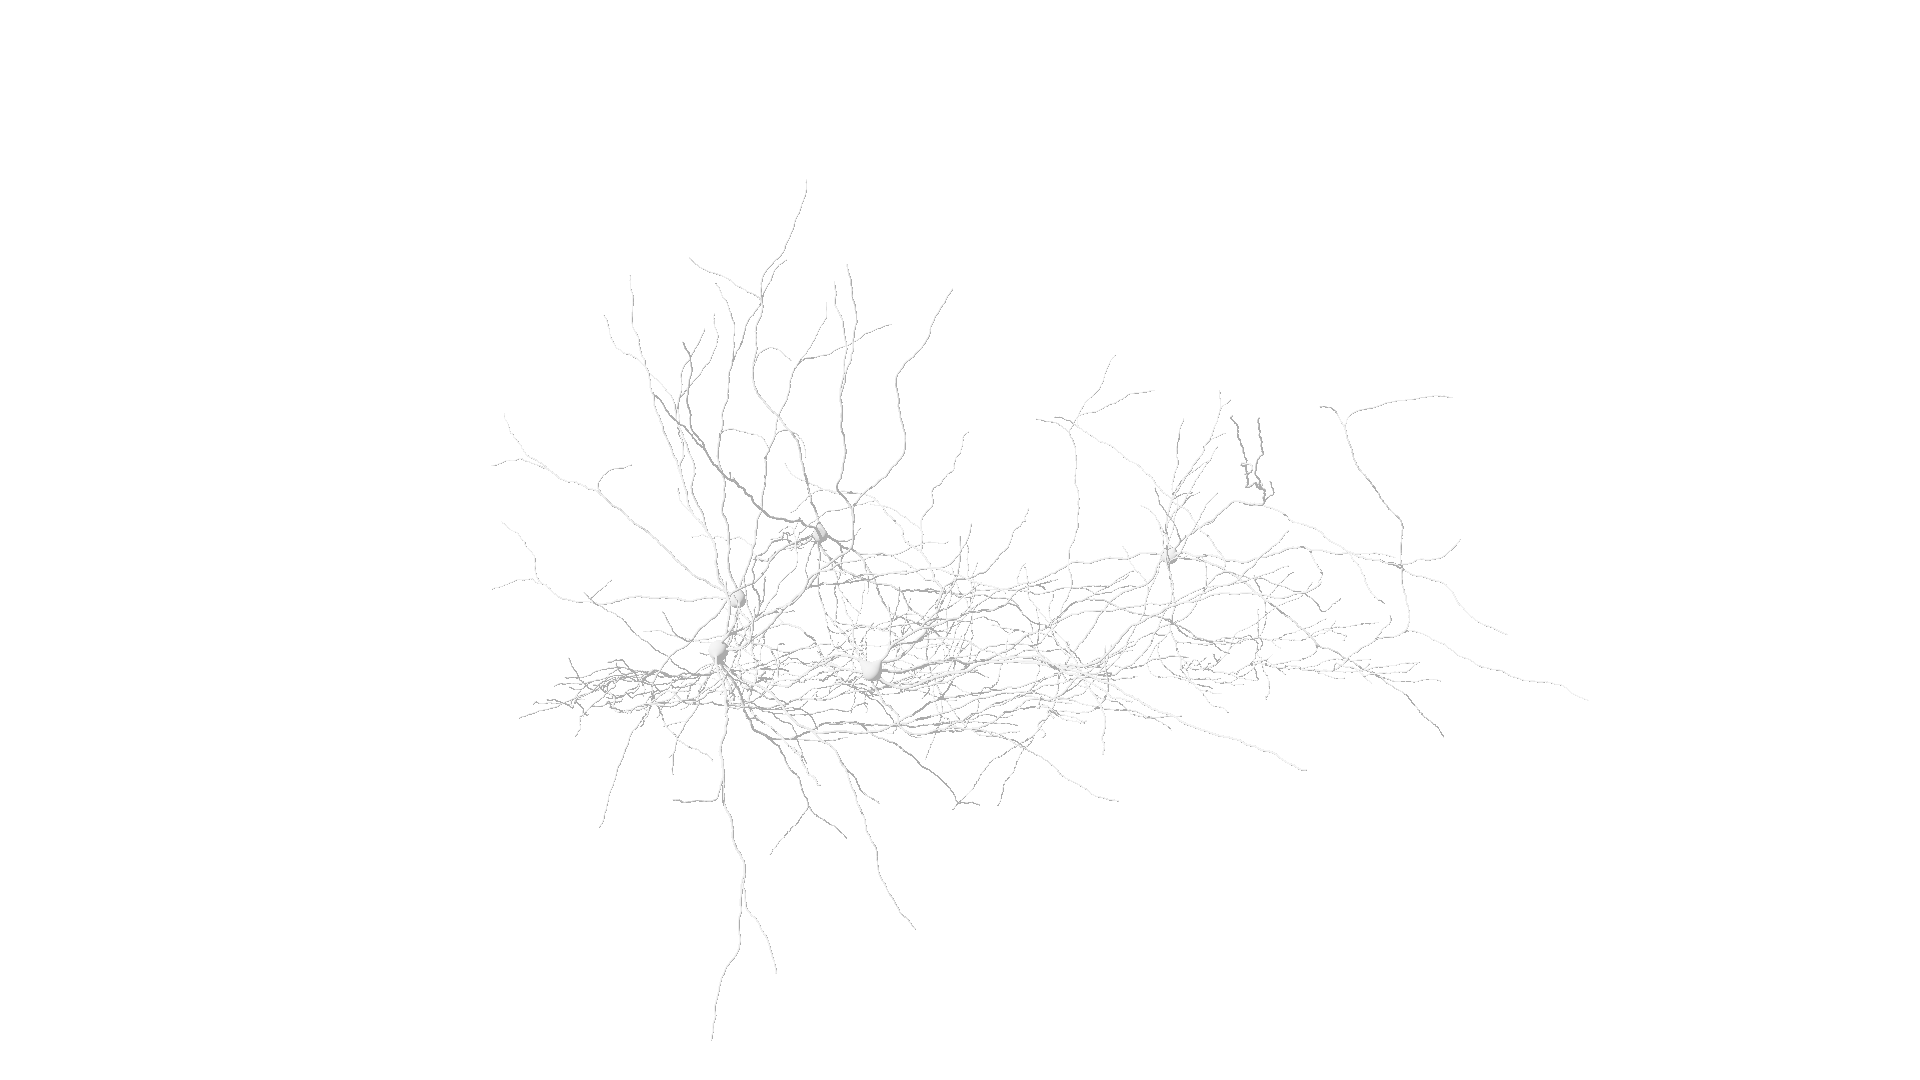
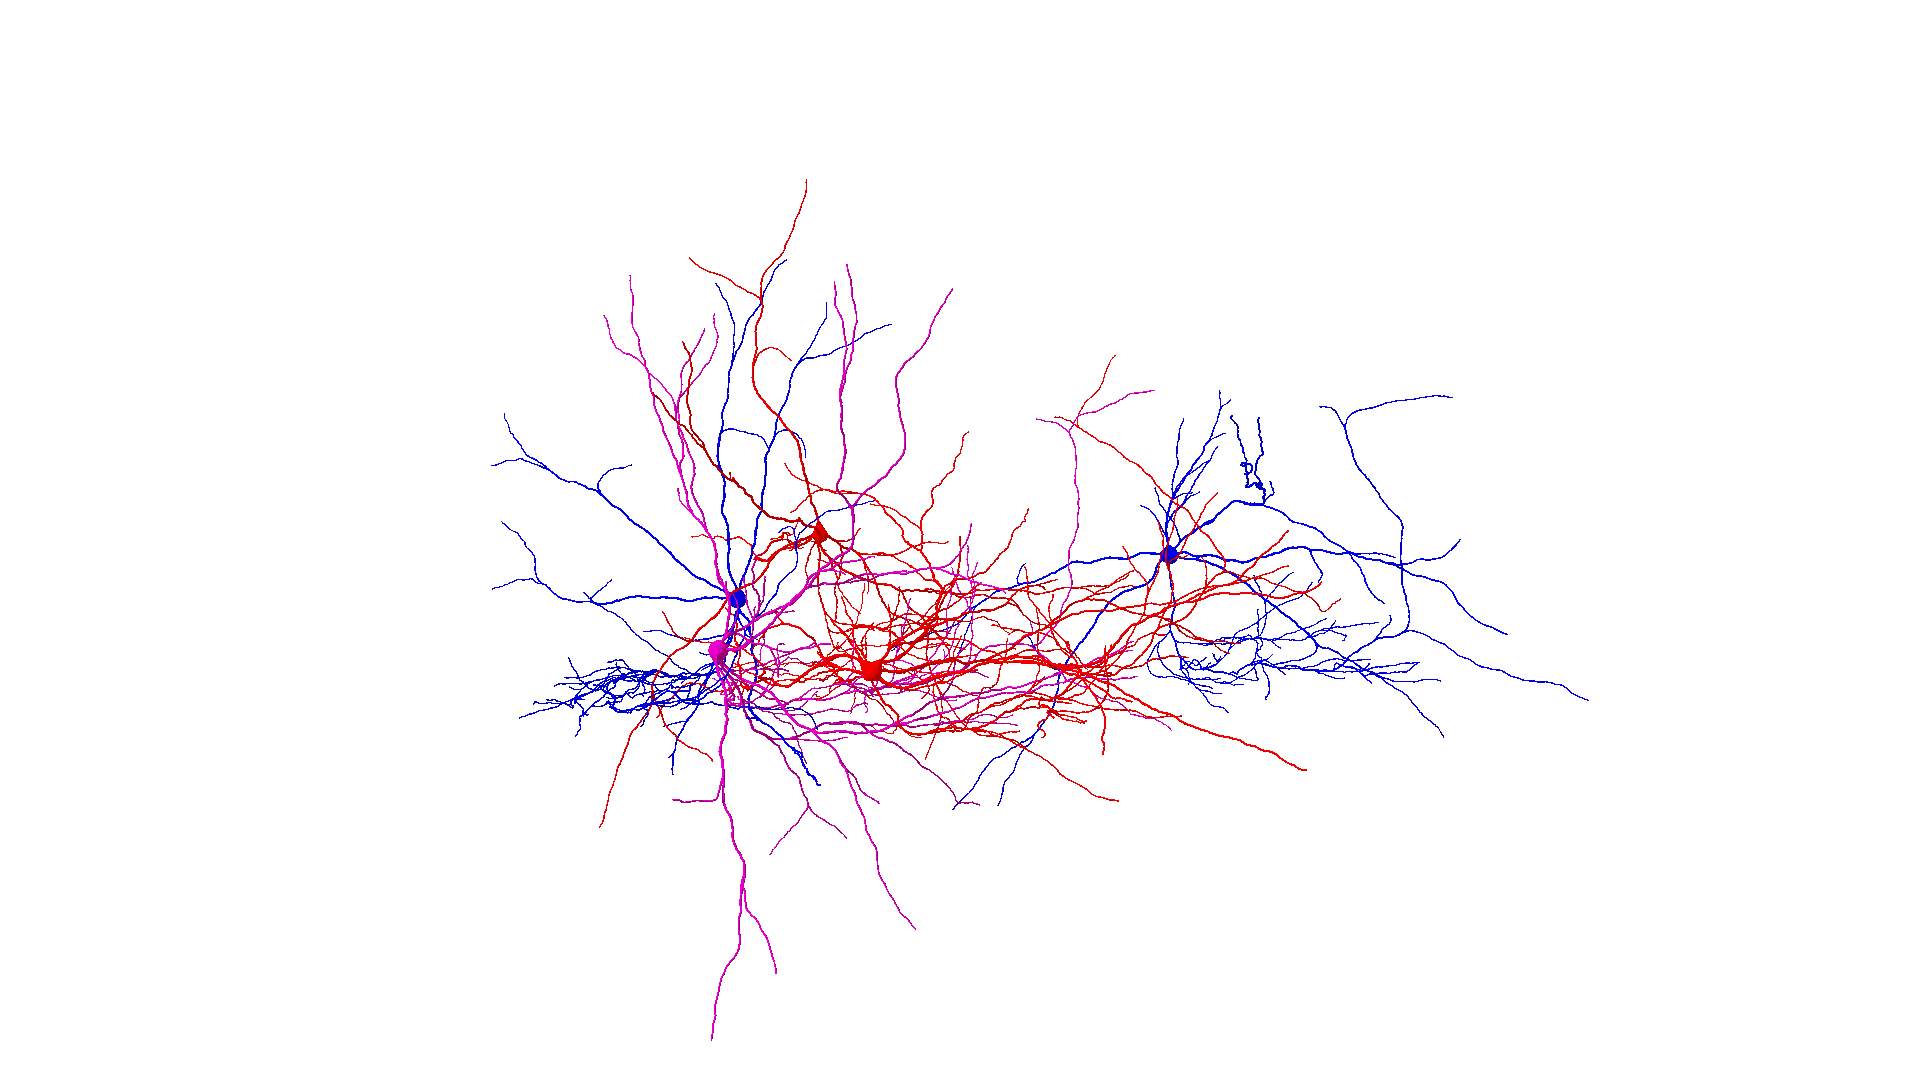
Fix Sonata.

Changed region(s): [[0.2812, 0.3361, 0.75, 0.7028], [0.7188, 0.5194, 0.75, 0.55], [0.375, 0.3056, 0.4062, 0.3361]]

diff --git a/python/testapi/plugins/test_sonata.py b/python/testapi/plugins/test_sonata.py
@@ -37,5 +37,10 @@ class TestSonata(SimpleTestCase):
         )
         models = loader.load_models(self.instance, self.sonata_circuit)
         self.assertEqual(len(models), 1)
+        ramp = brayns.ColorRamp(
+            value_range=brayns.ValueRange(0, 3),
+            colors=[brayns.Color4.red, brayns.Color4.blue],
+        )
+        brayns.set_color_ramp(self.instance, models[0].id, ramp)
         settings = RenderSettings(frame=1)
         render_and_validate(self, "sonata_circuit", settings)
